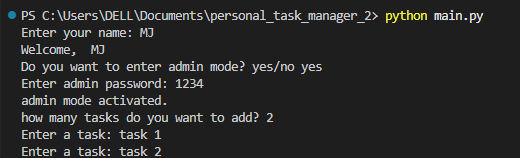
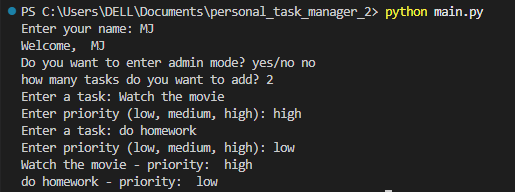
update README.md for task priority

Changed region(s): [[0.0, 0.0253, 0.9631, 0.9873], [0.0311, 0.9114, 0.3417, 0.9873], [0.7456, 0.9873, 0.7767, 1.0]]

diff --git a/tasks.py b/tasks.py
@@ -1,7 +1,7 @@
 import json
 def show_tasks(tasks):
     for task in tasks:
-        print(task["name"], "- priority: g", task["priority"])
+        print(task["name"], "- priority: ", task["priority"])
         
 def save_tasks(tasks):
     with open("tasks.json", "w", encoding="utf-8") as file:

diff --git a/README.md b/README.md
@@ -8,7 +8,13 @@ A simple task manager built with python
 - save tasks
 - load saved tasks
 - admin mode
-  
+
+## Priority
+Each task can have one of these priority levels:
+- Low
+- Medium
+- High
+
 ## Requirements
 - Python
 - python-dotenv
